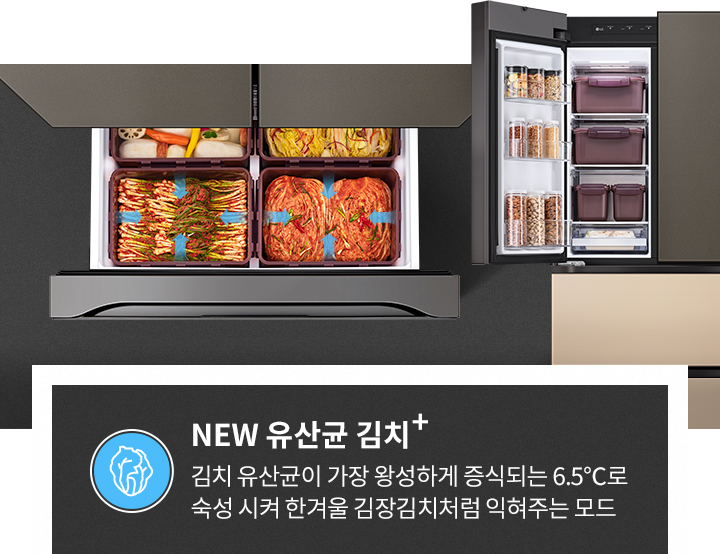
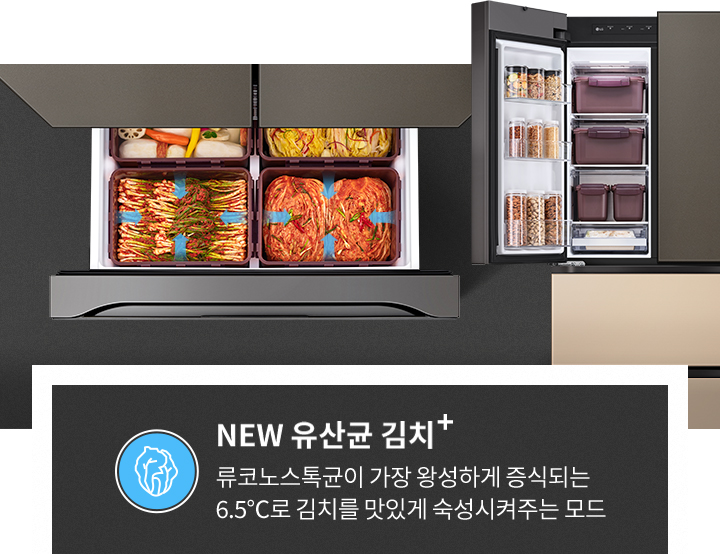
erytertrewtert

Changed region(s): [[0.1222, 0.7365, 0.8861, 0.9513]]

diff --git a/images/kimchi-refrigerators/md_new/usp/md_new_local.html b/images/kimchi-refrigerators/md_new/usp/md_new_local.html
@@ -424,7 +424,7 @@
 								<img src="./img_scene02_pc.jpg" alt="" class="pc-only">
 								<img src="./img_scene02_mo.jpg" alt="" class="mo-only">
 								<p class="hidden">
-									NEW 유산균 김치+ : 김치 유산균이 가장 왕성하게 증식되는 6.5℃로 숙성 시켜 한겨울 김장김치처럼 익혀주는 모드
+									NEW 유산균 김치+ : 류코노스톡균이 가장 왕성하게 증식되는 6.5℃로 김치를 맛있게 숙성시켜주는 모드
 								</p>
                             </div>  
 						</div>
